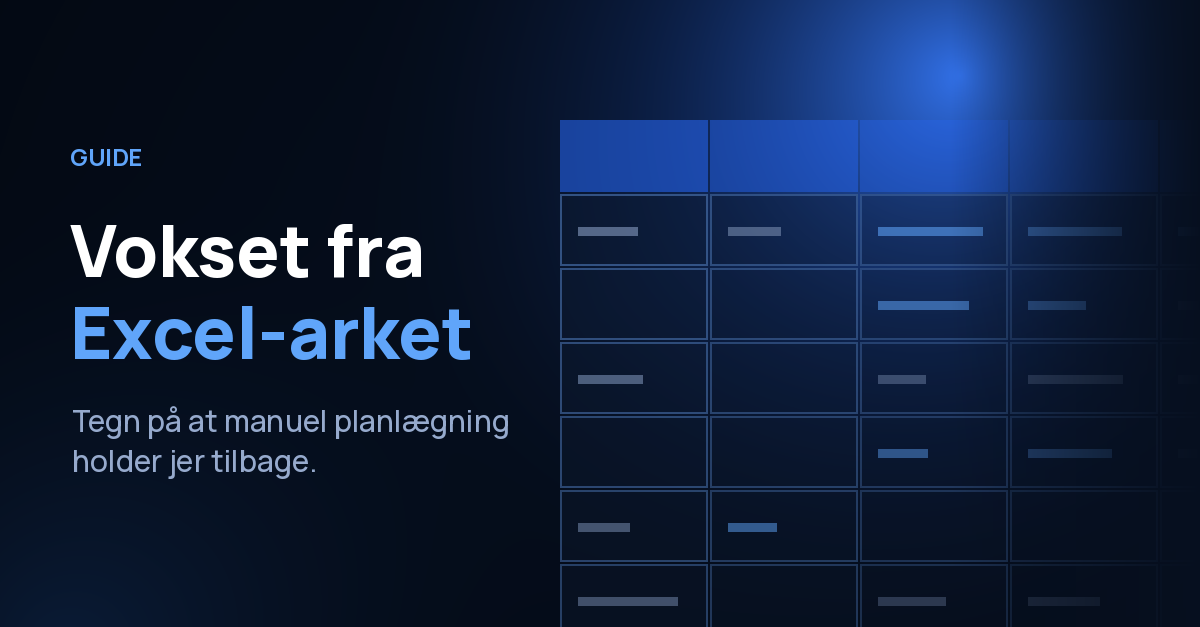
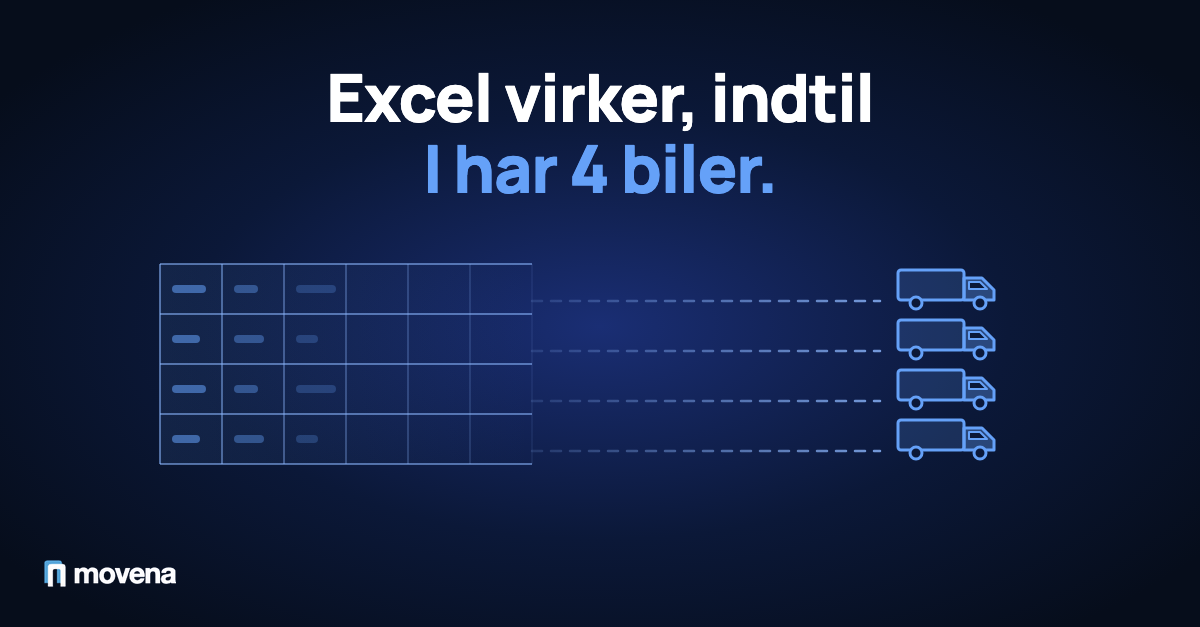
Expand Danish Excel article: Excel virker, indtil I har 4 biler

diff --git a/content/blog/moving-company-dispatch.da.md b/content/blog/moving-company-dispatch.da.md
@@ -1,60 +1,112 @@
 ---
-title: "Når Excel-arket ikke rækker længere: tegn på at I er vokset fra manuel planlægning"
+title: "Excel virker, indtil I har 4 biler. Her er grænsen."
 slug: "vokset-fra-excel-arket-disponering"
 date: "2026-06-22"
-excerpt: "At disponere efter hukommelsen og et Excel-ark fungerer, indtil det ikke gør. Her er de tydelige tegn på, at jeres flyttefirma er vokset fra manuel planlægning."
-metaTitle: "Disponering i flyttefirma: når Excel ikke rækker"
-metaDescription: "At disponere efter hukommelsen og et Excel-ark fungerer, indtil det ikke gør. Her er tegnene på, at I er vokset fra manuel planlægning."
+excerpt: "Excel er fint, når I er små. Men med flere biler og medarbejdere begynder det at knække. Her er tegnene, og hvad I gør i stedet."
+metaTitle: "Excel i flyttefirmaet: her er grænsen | Movena"
+metaDescription: "Excel er fint, når I er små. Men med flere biler og medarbejdere begynder det at knække. Her er tegnene, og hvad I gør i stedet."
 image: "/blog/moving-company-dispatch-da.png"
-imageAlt: "Excel-ark med dagens flytteopgaver fordelt i rækker og kolonner"
+imageAlt: "Et regnearksgitter i lyseblå linjer, der går over i fire lastbiler, under overskriften Excel virker, indtil I har 4 biler"
 category: "Guide"
-tags: ["disponering flyttefirma", "planlægning af flytteopgaver", "ruteplanlægning flytning", "drift af flyttefirma", "software til flyttefirmaer"]
+tags: ["excel flyttefirma", "planlægning i excel", "regneark flyttefirma", "system til flyttefirma", "disponering flyttefirma"]
 locale: "da"
 draft: false
 ---
 
-I lang tid er disponering bare noget, I har i hovedet.
+Excel er ikke problemet. Det er alt det, der sker rundt om arket.
 
-I kender folkene. I kender bilerne. I ved, hvem der er hvor. Et Excel-ark og et par noter er nok, og det fungerer.
+Mange flyttefirmaer kører på Excel i årevis, og det går fint. Arket viser, hvilke flytninger der ligger hvornår. Resten ved folkene. Hvem der har ringet. Hvilken bil der er ledig. Hvad kunden fik lovet i telefonen.
 
-Indtil en dag, hvor det ikke gør. Her er tegnene på, at I har krydset den grænse.
+Så kommer der flere biler og flere medarbejdere. Arket er det samme. Det er alt det rundt om, der vokser.
 
-## I disponerer efter hukommelsen
+## Hvad Excel gør godt
 
-Det første tegn er, at hele billedet ligger i hovedet på én person.
+Excel har fortjent sin plads i flyttefirmaet.
 
-Den person ved, hvilket hold der er på hvilket job, hvilken bil der er ledig, hvem der er syg. Og det går fint, lige indtil vedkommende selv er ude på en flytning eller har fri, og ingen andre kan svare på et simpelt spørgsmål om planen.
+Det er gratis, eller næsten. I har det allerede.
 
-Når driften går i stå, fordi én person ikke kan træffes, er I vokset fra opsætningen.
+Det er fleksibelt. Mangler I en kolonne, laver I en.
 
-## Dobbeltbookingerne er begyndt
+Alle kan bruge det. Der er intet nyt at lære.
 
-Det tydeligste tegn er overbooking.
+Når I er få, er planlægning i Excel ofte et fornuftigt valg. Én person bygger arket, kender det og holder det opdateret. Det virker, fordi den samme person også har resten af planen i hovedet.
 
-To job booket på den samme bil. Det samme hold lovet væk til to kunder. Det skete én gang, og I opdagede det. Så skete det igen. Nu tjekker I to gange, før I bekræfter noget som helst, fordi I har lært ikke at stole på regnearket.
+## Hvorfor Excel i flyttefirmaet knækker omkring 4 biler
 
-Dobbeltbookinger er ikke uheld. Det er det, der sker, når planen ligger for mange steder, og intet enkelt sted viser sandheden.
+Grænsen kommer, når tre ting sker på samme tid.
 
-## I kan ikke se, hvad der er ledigt
+**Der kører flere medarbejdere ud samme dag.** Med en eller to biler er dagen til at overskue. Med fire biler er der fire adresser, fire sæt medarbejdere og fire tidsplaner, der skal passe sammen. Og de påvirker hinanden. Bliver én flytning forsinket, rykker det de næste.
 
-Stil jer selv et simpelt spørgsmål: hvilke hold og biler er ledige på torsdag i næste uge?
+**Der kommer flere ændringer i løbet af dagen.** En kunde rykker tidspunktet. En medarbejder melder sig syg. En flytning tager længere tid end planlagt. Hver ændring skal ind i arket, og alle, der skal vide det, skal have besked.
 
-Hvis svaret kræver, at I ringer til nogen, åbner regnearket og krydser fingre, så er det dér, problemet ligger. I kan ikke planlægge ordentligt, når I ikke kan se klart. Hver booking bliver et lille væddemål.
+**Én person kan ikke længere holde hele planen i hovedet.** Det er det egentlige skift. Arket har aldrig været hele planen. Det var arket plus det, én person vidste. Når der er for meget at huske, bliver hullerne synlige.
 
-## I spiller hasard på hvert job
+Fire biler er en tommelfingerregel. Nogle mærker det ved tre, andre først ved fem. Mekanismen er den samme.
 
-Og det er reelt det, manuel planlægning bliver til, efterhånden som I vokser. En række små væddemål.
+## Tegnene på, at I har nået grænsen
 
-I vædder på, at bilen er ledig. På at holdet husker det. På at intet blev dobbeltbooket. Som regel vinder I. Men de gange I taber, koster det en panikløsning, en sur kunde eller et job, I slet ikke kunne køre.
+Genkender I flere af dem her, er I der.
 
-## Hvad der ændrer sig med et rigtigt system
+**To redigerer arket samtidig, og noget bliver overskrevet.** Kontoret retter en tid. En anden flytter en medarbejder til et andet job. Den ene gemmer oven i den anden, og en ændring forsvinder. Det opdager I først, når nogen står det forkerte sted.
 
-Et system til disponering gør især én ting: det viser jer sandheden ét sted.
+**Kun én person forstår arket.** Farverne, forkortelserne og formlerne giver mening for hende, der har bygget det. Når hun er syg, ved ingen helt, hvad planen er.
 
-Hvilke hold og biler der er ledige, med et enkelt blik. En booking, der ikke kan kollidere med en, der allerede ligger der. En plan, som alle i firmaet kan se, ikke kun den, der har den i hovedet. Og fordi dagens opgaver ligger samlet, kan I også lægge ruten efter, hvad der rent faktisk passer sammen.
+**Medarbejderne får jobbet på sms eller i telefonen.** Arket ligger på kontoret. Medarbejderne er ude. Så bliver adressen og tidspunktet sendt i en besked, og ændringerne kommer i nye beskeder, der skal læses i den rigtige rækkefølge.
 
-Hasardspillet stopper. I planlægger ud fra det, der faktisk er sandt, i stedet for det, I håber er sandt.
+**Timer bliver skrevet på papir og tastet ind igen til løn.** Medarbejderne noterer deres tid på en seddel. Kontoret taster den ind. En gang til fakturaen og en gang til lønnen.
 
-Vil I se, hvordan [Movena](/da) håndterer disponering, kan I [prøve besparelsesberegneren](/da/savings-calculator) eller booke en kort demo. Femten minutter, uden salgssnak.
+**Tilbud ligger ét sted, planen et andet og fakturaen et tredje.** Prisen står i en mail. Flytningen står i arket. Fakturaen bliver lavet i regnskabsprogrammet. Det er de samme oplysninger, og de bliver tastet ind tre gange.
 
-Sætter en ny standard for, hvordan flyttefirmaer arbejder.
+**En bil bliver booket to gange.** To flytninger på den samme bil samme formiddag. Arket sagde ikke stop, for et regneark ved ikke, hvad en bil er.
+
+**Kunden ringer og spørger, hvornår I kommer.** Svaret skal findes tre steder. I arket, i beskederne til medarbejderne og hos den medarbejder, der er ude. Kunden venter i røret imens.
+
+## Hvad I gør i stedet
+
+Løsningen er et system, hvor tilbud, planlægning, medarbejdernes app, timer og faktura hænger sammen. Oplysningerne bliver tastet ind én gang og følger jobbet hele vejen.
+
+Sådan virker det i Movena, et system bygget til flyttefirmaer:
+
+- **Tilbud bliver til jobs.** Når kunden accepterer tilbuddet, bliver det til et bekræftet job i kalenderen.
+- **Planlægning med medarbejdere og biler.** I ser, hvilke medarbejdere og biler der er ledige. En bil kan ikke bookes to steder på samme tid.
+- **Medarbejderne har jobbet i en app.** Adresse, tidspunkt, kundens kontaktoplysninger, hvad der skal flyttes og noter til jobbet. Læs mere i [Medarbejderapp til flyttefirma](/da/blog/medarbejderapp-til-flyttefirma).
+- **Timerne kommer fra appen.** Medarbejderne starter og stopper deres tid på jobbet. Timerne samles pr. medarbejder og pr. job, klar til både faktura og løn.
+- **Fakturaen bygges på jobbet.** Timer, materialer og tillæg ligger allerede i systemet, så fakturaen bliver lavet ud fra det, der faktisk skete.
+
+Når kunden ringer, ligger svaret ét sted. Også den dag, hvor hende, der plejer at vide det hele, har fri.
+
+## Sådan skifter I fra Excel uden kaos
+
+Skiftet er det, de fleste er mest bange for. Det kan gøres i små trin.
+
+**Tag det i etaper.** Start med tilbud og kalender, så kontoret kører først. Når det sidder, tager I appen med ud til medarbejderne.
+
+**Lad jeres data flytte med.** Kunder, tidligere jobs og prislister skal ikke tastes ind igen. Ligger de i Excel, flytter vi dem over for jer. Priser, tillæg, medarbejdere og biler sætter vi også op. Opsætning og dataflytning koster ikke noget.
+
+**Kør de første flytninger sammen med os.** Vi er med på de første jobs, og er der noget, ringer I bare.
+
+**Vælg en roligere uge.** Kan I vælge, så skift i en periode med færre flytninger end i højsæsonen.
+
+Er I stadig få biler, er det værd at overveje at skifte, før grænsen kommer. Det har vi skrevet om i [Styr på det fra første bil](/da/blog/system-til-lille-flyttefirma).
+
+Vil I se, hvordan jeres plan ser ud uden regnearket? Book en demo, så viser vi jer det.
+
+[Book en demo](/da/book-demo)
+
+## Ofte stillede spørgsmål
+
+### Kan man drive et flyttefirma i Excel?
+
+Ja, når I er små. Med få biler og én person, der har styr på planen, kan et regneark sagtens række. Det begynder at knække, når flere biler kører samme dag, og planen ændrer sig i løbet af dagen.
+
+### Hvornår er et flyttefirma vokset fra Excel?
+
+Når én person ikke længere kan holde hele planen i hovedet. Det sker ofte omkring fire biler. Typiske tegn er dobbeltbookede biler, ændringer i arket, der bliver overskrevet, og timer, der bliver tastet ind flere gange.
+
+### Kan vi få vores data med fra Excel?
+
+Ja. Ligger jeres kunder og jobs i Excel, flytter vi dem over til Movena for jer. Opsætning og dataflytning koster ikke noget.
+
+### Skal vi skifte alt på én gang?
+
+Nej. De fleste starter med tilbud og kalender. Når kontoret kører, tager I medarbejdernes app i brug.
